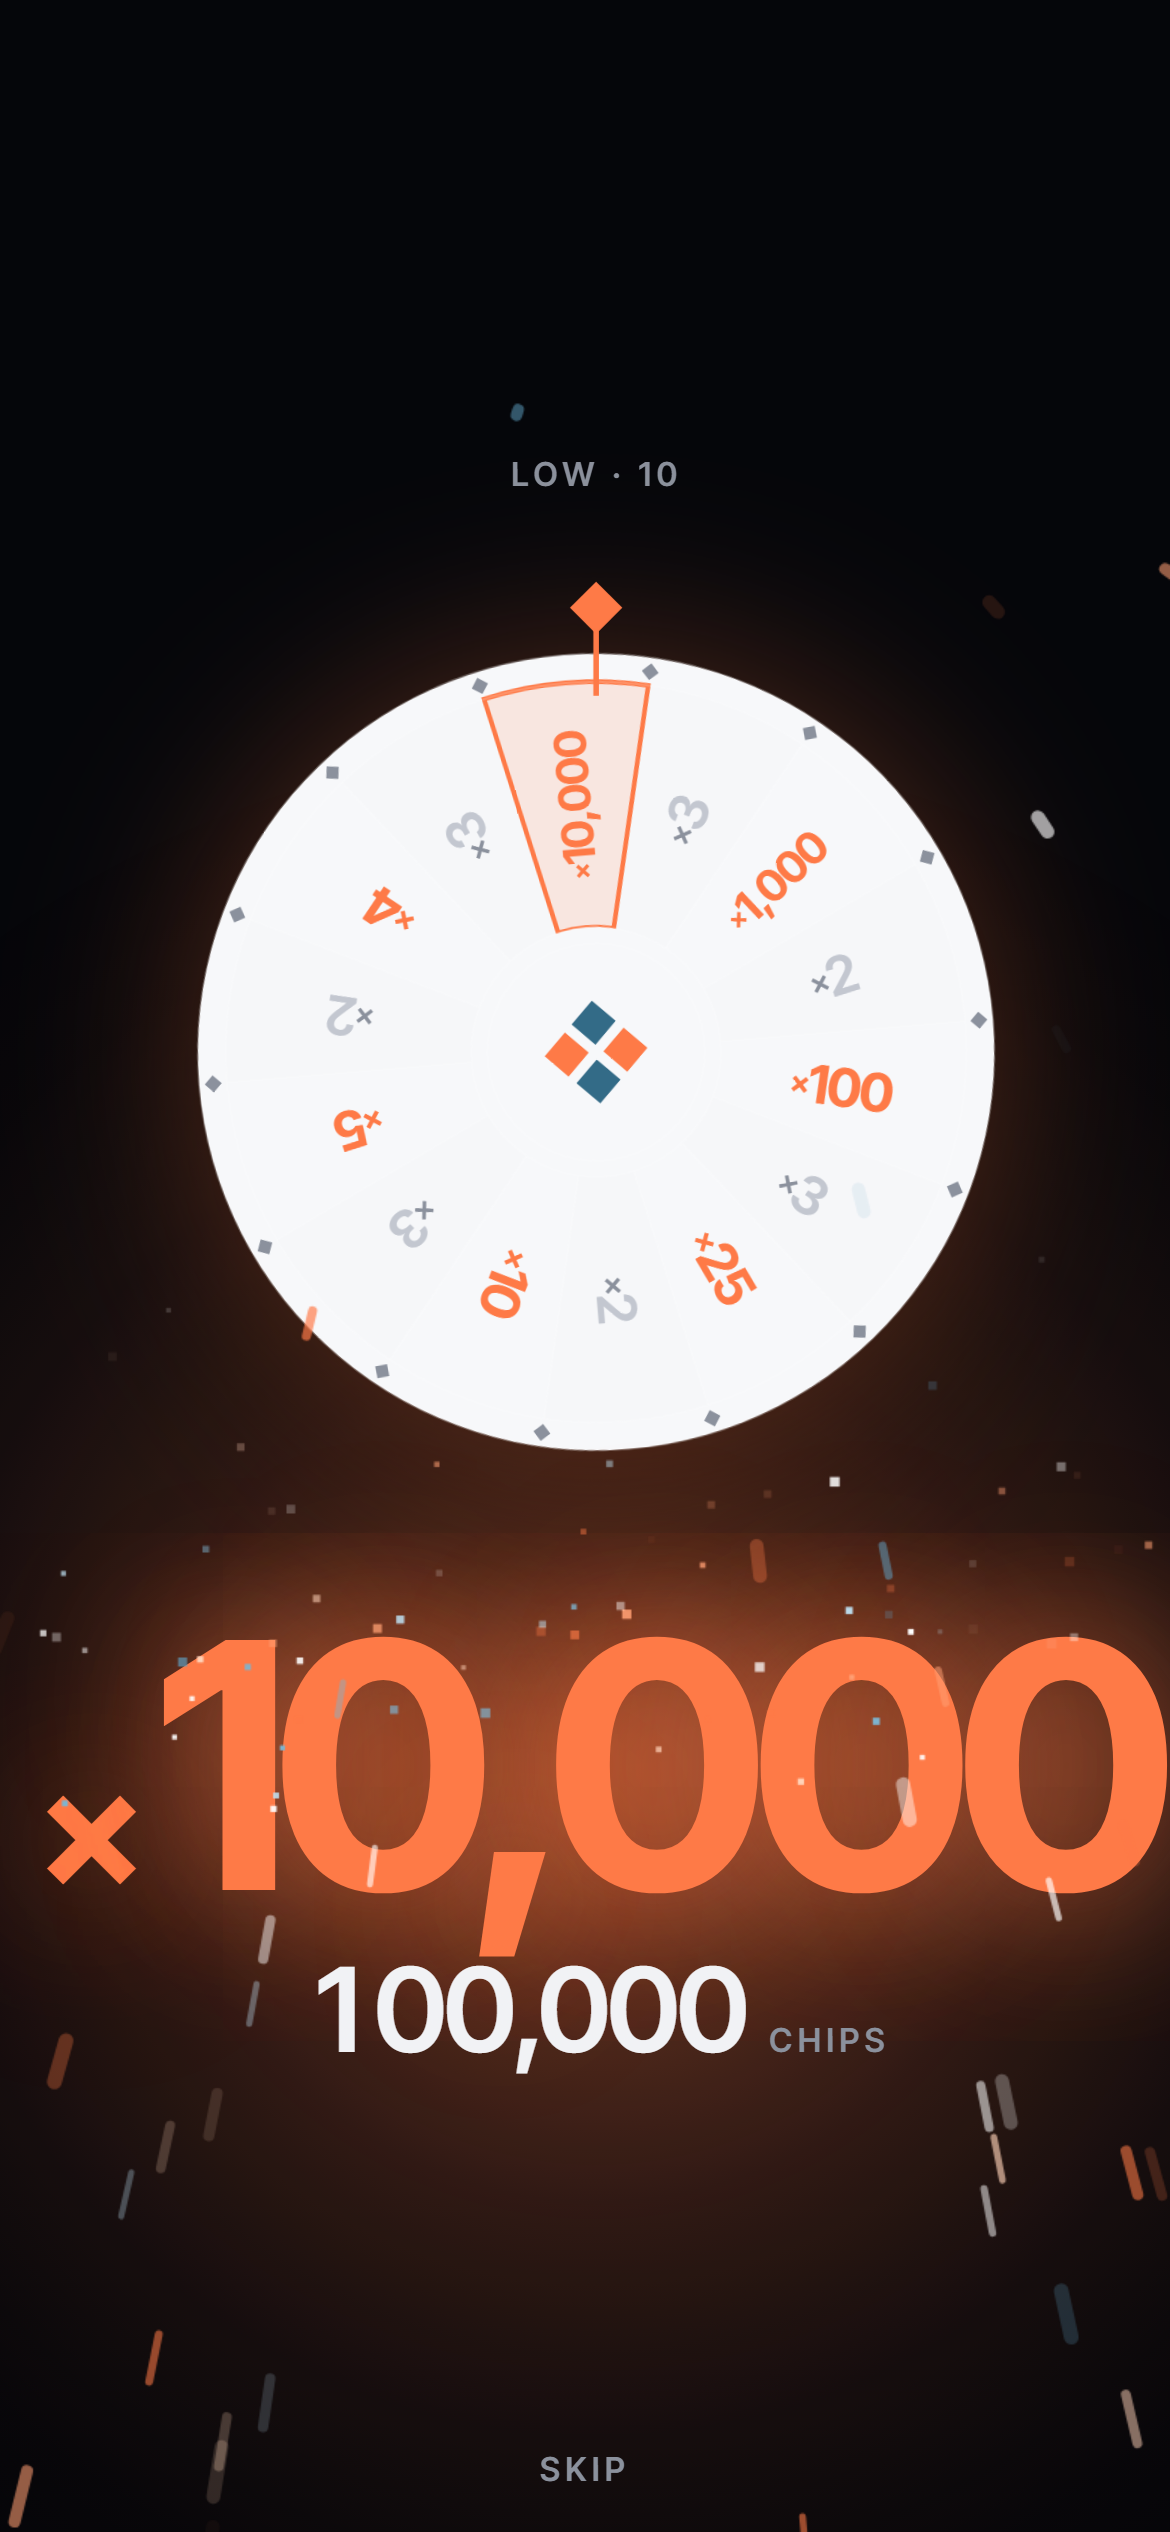
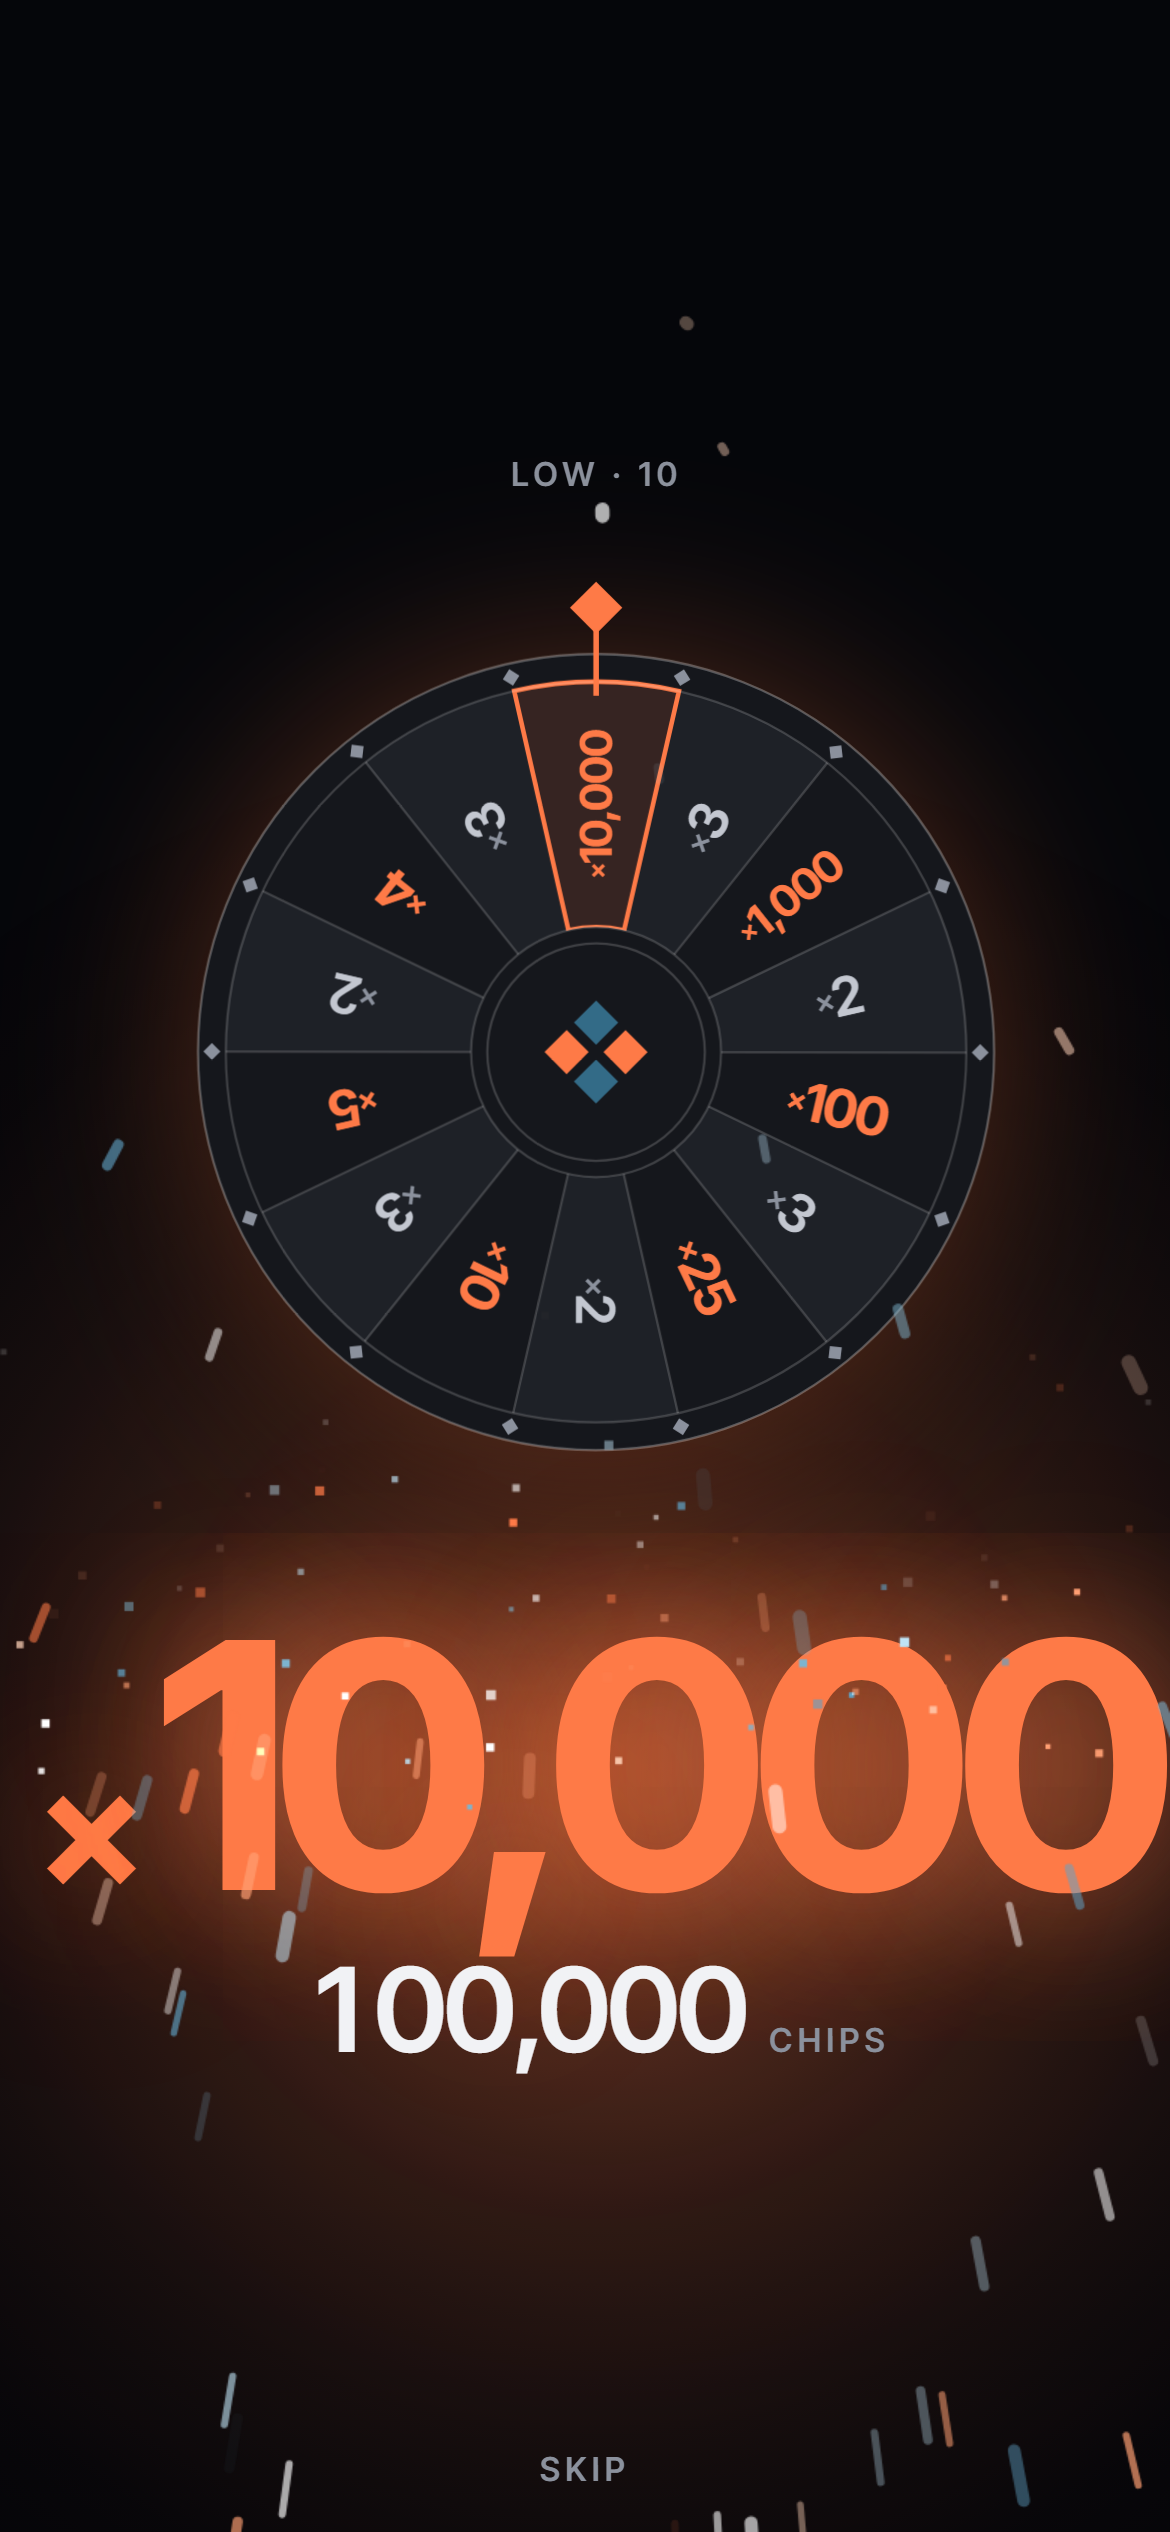
fix(ui): ライトテーマのルーレットを白と灰色のしま模様にしてマスの境界を見やすくする

diff --git a/src/style.css b/src/style.css
@@ -6,6 +6,7 @@
   --glass-hi:rgba(255,255,255,.74); --glass:rgba(255,255,255,.5); --glass-lo:rgba(255,255,255,.3);
   --edge:rgba(255,255,255,.9);
   --well:rgba(255,255,255,.34); --face:#F7F8FA;
+  --wd-face:#FFFFFF; --wd1:#FFFFFF; --wd2:#E2E4E9;
   --shadow:0 28px 60px -30px rgba(22,26,44,.38),0 2px 6px -2px rgba(22,26,44,.08);
   --you:#336B87; --cpu:#FE7A47; --you-soft:rgba(51,107,135,.12); --cpu-soft:rgba(254,122,71,.14); --cpu-ink:#2B1206; --you-text:#336B87;
   --card-ink:#0D0F13; --card-red:#C8243F;
@@ -23,6 +24,7 @@
     --hair:rgba(255,255,255,.08); --hair-2:rgba(255,255,255,.18);
     --glass-hi:rgba(255,255,255,.1); --glass:rgba(255,255,255,.06); --glass-lo:rgba(255,255,255,.03);
     --edge:rgba(255,255,255,.14); --well:rgba(255,255,255,.04); --face:#15171C;
+    --wd-face:#15171C; --wd1:#15171C; --wd2:#1E2127;
     --shadow:0 28px 60px -26px rgba(0,0,0,.75);
     --you-soft:rgba(51,107,135,.22); --cpu-soft:rgba(254,122,71,.16); --you-text:#7DB4CF;
     --nav-bg:rgba(255,255,255,.08); --nav-ink:#F1F2F5; --seg-on:rgba(255,255,255,.16);
@@ -37,6 +39,7 @@
   --hair:rgba(255,255,255,.08); --hair-2:rgba(255,255,255,.18);
   --glass-hi:rgba(255,255,255,.1); --glass:rgba(255,255,255,.06); --glass-lo:rgba(255,255,255,.03);
   --edge:rgba(255,255,255,.14); --well:rgba(255,255,255,.04); --face:#15171C;
+  --wd-face:#15171C; --wd1:#15171C; --wd2:#1E2127;
   --shadow:0 28px 60px -26px rgba(0,0,0,.75);
   --you-soft:rgba(51,107,135,.22); --cpu-soft:rgba(254,122,71,.16); --you-text:#7DB4CF;
   --nav-bg:rgba(255,255,255,.08); --nav-ink:#F1F2F5; --seg-on:rgba(255,255,255,.16);
@@ -398,7 +401,8 @@ dialog::backdrop{background:rgba(12,14,20,.28);-webkit-backdrop-filter:blur(8px)
 .w-stack{position:relative;z-index:2;display:grid;justify-items:center;gap:18px;width:100%;max-width:640px}
 /* dark palette for the dimmed tiers (applied under the darkening layer) */
 .wheel.dk{--bg:#0B0C10;--ink:#F1F2F5;--ink-2:#C3C7D0;--muted:#8B919D;--hair:rgba(255,255,255,.08);--hair-2:rgba(255,255,255,.18);
-  --glass-hi:rgba(255,255,255,.1);--glass-lo:rgba(255,255,255,.03);--edge:rgba(255,255,255,.14);--shadow:0 28px 60px -26px rgba(0,0,0,.75);--you-text:#7DB4CF}
+  --glass-hi:rgba(255,255,255,.1);--glass-lo:rgba(255,255,255,.03);--edge:rgba(255,255,255,.14);--shadow:0 28px 60px -26px rgba(0,0,0,.75);--you-text:#7DB4CF;
+  --wd-face:#15171C;--wd1:#15171C;--wd2:#1E2127}
 .wheel.dk.t3,.wheel.dk.t4{--bg:#05060A}
 .w-bg{inset:-40px;opacity:0}
 .w-rays{left:var(--rx,50%);top:var(--ry,50%);width:170vmax;height:170vmax;margin:-85vmax 0 0 -85vmax;opacity:0;will-change:transform;
@@ -422,9 +426,9 @@ dialog::backdrop{background:rgba(12,14,20,.28);-webkit-backdrop-filter:blur(8px)
 .w-disc,.w-front{position:absolute;inset:0;width:100%;height:100%;overflow:visible}
 .w-disc{filter:drop-shadow(0 22px 34px rgba(22,26,44,.28))}
 .wheel.dk .w-disc{filter:drop-shadow(0 0 34px color-mix(in srgb,var(--cpu) 30%,transparent)) drop-shadow(0 24px 40px rgba(0,0,0,.6))}
-.wd-base{fill:var(--face);stroke:var(--edge);stroke-width:1}
-.wd-f1{fill:none}
-.wd-f2{fill:color-mix(in srgb,var(--ink) 5%,transparent)}
+.wd-base{fill:var(--wd-face);stroke:var(--edge);stroke-width:1}
+.wd-f1{fill:var(--wd1)}
+.wd-f2{fill:var(--wd2)}
 .wd-ln path{stroke:var(--hair-2);stroke-width:1}
 .wd-ring{fill:none;stroke:var(--hair-2);stroke-width:1}
 .wd-peg rect{fill:var(--muted)}
@@ -432,7 +436,7 @@ dialog::backdrop{background:rgba(12,14,20,.28);-webkit-backdrop-filter:blur(8px)
 .wd-hi{fill:var(--cpu);font-weight:700}
 .wd-lo{fill:var(--ink-2);font-weight:600}
 .wd-lo tspan{fill:var(--muted)}
-.wd-hub{fill:var(--face);stroke:var(--hair-2);stroke-width:1}
+.wd-hub{fill:var(--wd-face);stroke:var(--hair-2);stroke-width:1}
 .wd-b{fill:var(--you)}
 .wd-o{fill:var(--cpu)}
 .w-ptr{fill:var(--cpu)}
